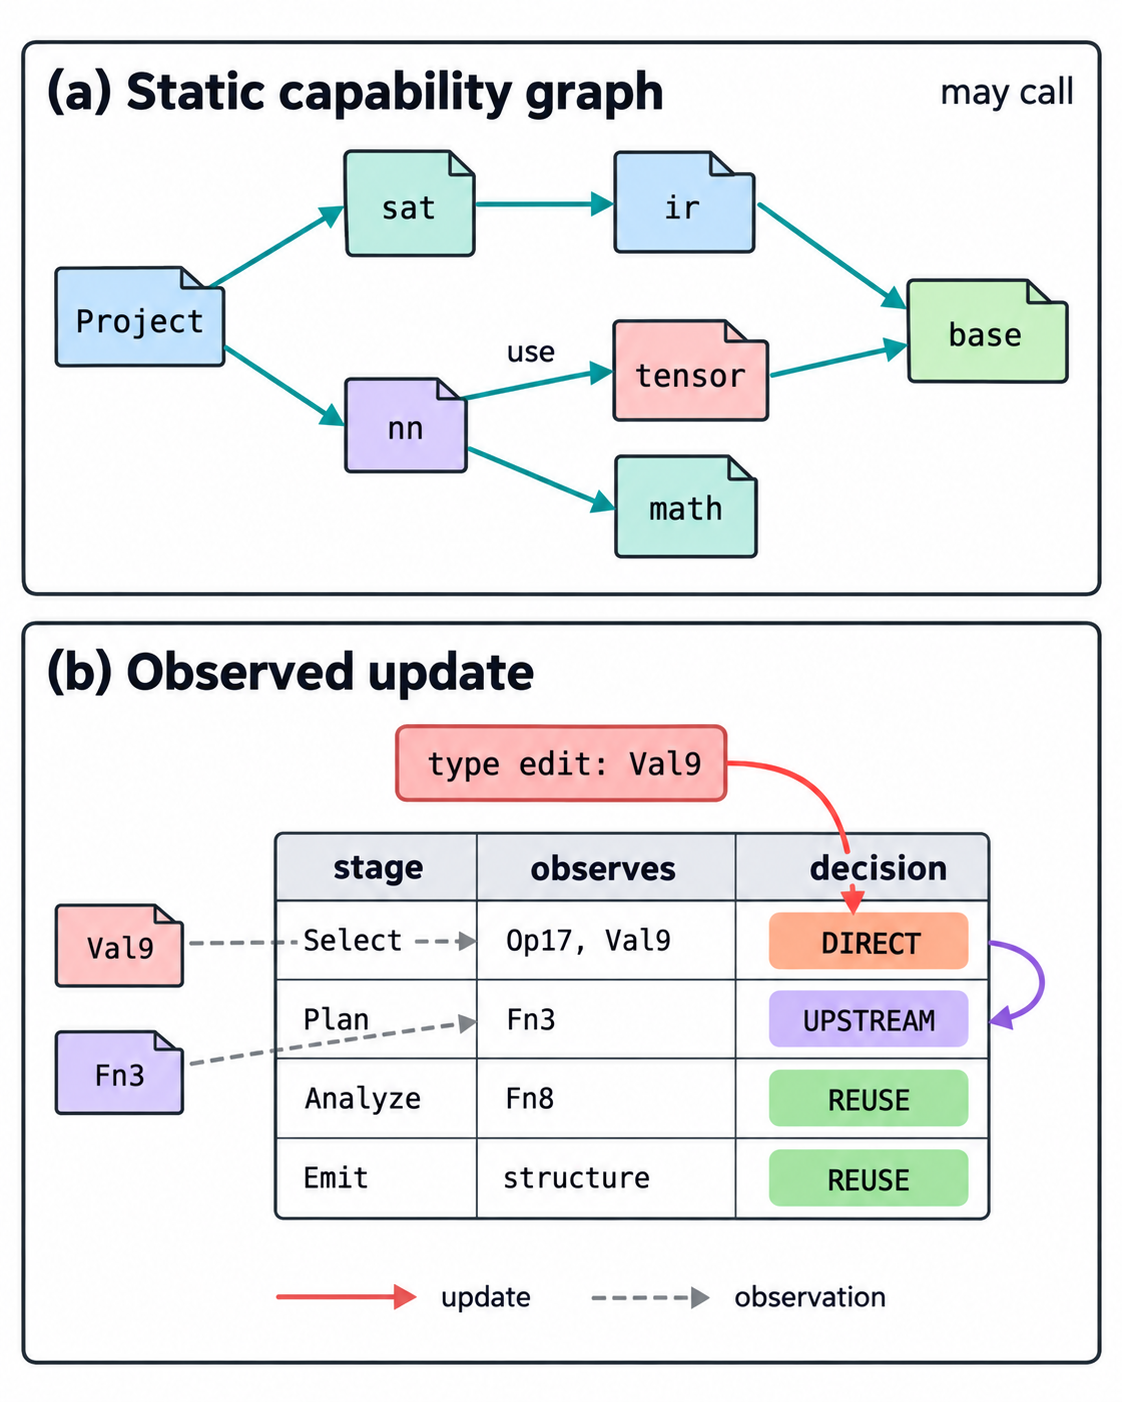
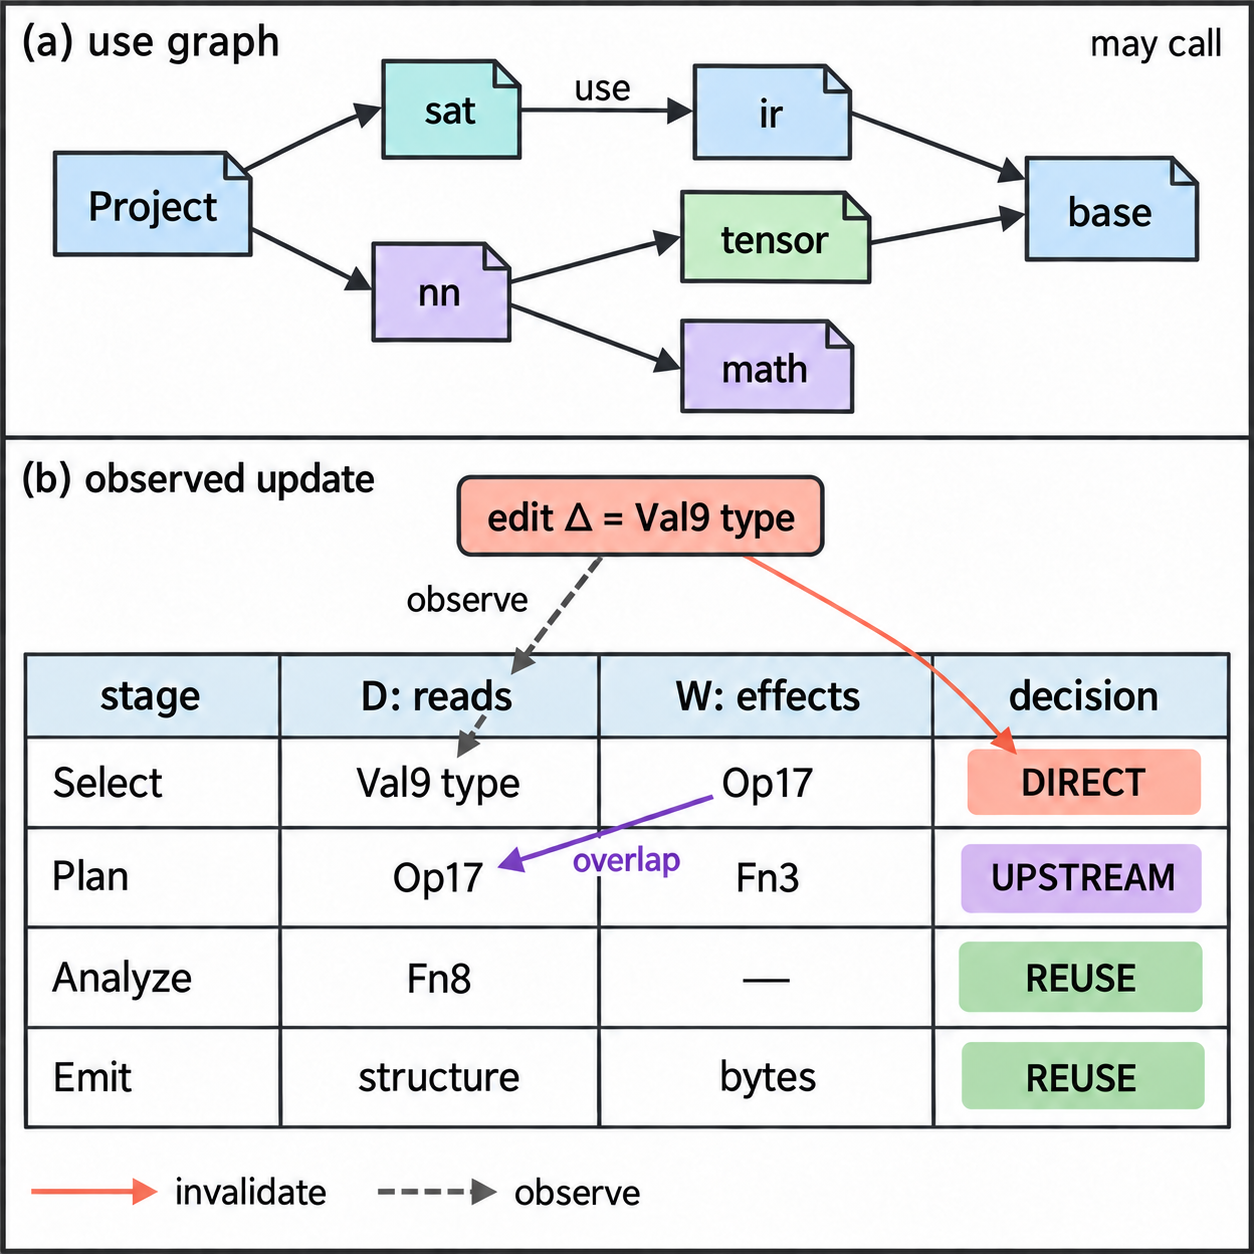
compact design figures for single-column layout

diff --git a/paper/sections/03-design.tex b/paper/sections/03-design.tex
@@ -38,13 +38,13 @@ and the runtime either commits a verified update or returns a read-only result.
 
 \begin{figure}[t]
   \centering
-  \includegraphics[width=\columnwidth]{figures/figure-02-system-model.png}
-  \caption{Joggle expresses compiler behavior as typed functions, organizes
-    them in mods, and executes them over a transactional graph runtime.}
-  \Description{An extension mod and typed function enter an evaluator. The
-    evaluator accesses a subject store, records reads and effects, verifies
-    mutations in a transaction, and returns a result or artifact. Reusable
-    dependency records feed back to the evaluator.}
+  \includegraphics[width=.80\columnwidth]{figures/figure-02-system-model.png}
+  \caption{A typed compiler call executes transactionally and records reads
+    and effects for reuse.}
+  \Description{A typed function enters an evaluator that reads and writes a
+    subject graph under a transaction. A compact record stores the call key,
+    result, observed reads, and effects; current records return to the
+    evaluator as cache hits.}
   \label{fig:system-model}
 \end{figure}
 
@@ -294,12 +294,12 @@ recorded inputs overlap its effects.
 
 \begin{figure}[t]
   \centering
-  \includegraphics[width=\columnwidth]{figures/figure-03-dependencies.png}
-  \caption{Static \texttt{use} edges define available compiler capabilities,
-    whereas dynamic observations determine the work selected after an edit.}
-  \Description{The upper panel shows the static use graph of seven mods. The
-    lower panel shows a value-type edit directly selecting one stage,
-    propagating to one downstream stage, and preserving two reusable stages.}
+  \includegraphics[width=.80\columnwidth]{figures/figure-03-dependencies.png}
+  \caption{Static \texttt{use} edges bound calls; dynamic read/effect records
+    select work after an edit.}
+  \Description{The upper region shows the static use graph of seven mods. The
+    lower ledger shows each stage's observed reads, effects, and selection
+    decision after a value-type edit.}
   \label{fig:dependencies}
 \end{figure}
 

diff --git a/paper/README.md b/paper/README.md
@@ -52,26 +52,20 @@ Figure 2 follows this call from definition to publication. A mod supplies the
 typed function, the evaluator observes its graph access, and the runtime either
 commits a verified update or returns a read-only result.
 
-<!-- FIGURE 2 PROMPT — Original single-column Joggle mechanism diagram, portrait
-aspect ratio about 4:5, designed for a 3.3-inch ACM column. White background,
-thin dark strokes, square or lightly rounded compiler-paper boxes, compact
-spacing, restrained blue/teal/purple/coral semantic accents, small monospace
-signatures, no icons, no gradients, no shadows, and no wide stacked workflow.
-Use an original hub-and-ledger composition. At the top, place two compact cards:
-Extension Mod on the left with `use ir` and `fn select`, and Typed Function on
-the right with `select(Mod) -> bool` plus four tiny role tags analyze, transform,
-convert, emit. Both feed a small central Evaluator box containing resolve,
-execute, observe. Below it, place a compact Subject Store box containing a tiny
-Fn→Blk→Op→Val graph. Attach a narrow transaction strip on its right with journal
-and verify. At the lower left, draw a dependency ledger with `D: reads` and
-`W: effects`; connect store reads to D with dashed arrows and committed writes
-to W with solid arrows. A curved arrow labeled reuse returns from the ledger to
-the evaluator. A small result/artifact tab exits at lower right. Emphasize the
-closed call-observe-commit loop rather than architectural layers. Keep every
-label readable at single-column print size. -->
+<!-- FIGURE 2 PROMPT — Compact square Joggle call mechanism for 0.80 of one ACM
+column. Use a white background, thin dark strokes, restrained blue/teal/purple/
+coral fills, short arrows, tight boxes, and monospace code labels. The top strip
+contains `mod sat`, `use ir`, `fn select`, `[stage: select]`, and
+`select(Mod) -> bool`, with analyze/transform/convert/emit chips. A compact
+Evaluator performs resolve→execute→observe over a Subject graph
+Fn→Blk→Op17→Val9 and a journal/verify transaction. Dashed arrows mark reads;
+solid coral arrows mark writes and commit. The bottom is a four-column record:
+key `E, fn, args`, result `r`, reads `Val9 type + Op17 callee`, and effects
+`Op17`, followed by `reuse = same(key) ∧ current(D)`. Eliminate title banners,
+large containers, long connectors, and decorative whitespace. -->
 
-*Figure 2: Joggle expresses compiler behavior as typed functions, organizes
-them in mods, and executes them over a transactional graph runtime.*
+*Figure 2: A typed compiler call executes transactionally and records reads and
+effects for reuse.*
 
 The remainder of this section develops the model in execution order. Section
 3.2 defines compiler functions. Section 3.3 explains how mods own and compose
@@ -317,27 +311,19 @@ functions may be called; a compact observation ledger records which entities a
 particular run read. An edit invalidates the stage that observed it and only
 the later stages whose recorded inputs overlap its effects.
 
-<!-- FIGURE 3 PROMPT — Original single-column two-panel dependency diagram,
-portrait aspect ratio about 4:5, designed for a 3.3-inch ACM column. Match
-Figure 2's thin dark strokes, compact square compiler-paper boxes, restrained
-blue/teal/purple/coral/green accents, white background, small monospace entity
-labels, no icons, gradients, shadows, or wide left-to-right pipeline. Stack two
-dense panels vertically. Panel (a), `static capability graph`, occupies the top
-third: Project has `use` arrows to sat and nn; sat to ir; nn to tensor and math;
-ir and tensor to base. Use file-tab node shapes and label one representative
-edge `use`; place `may call` in the panel corner. Panel (b), `observed update`,
-occupies the lower two-thirds as a compact three-column ledger headed stage,
-observes, decision. Rows are Select | Op17, Val9 | DIRECT; Plan | Fn3 | UPSTREAM;
-Analyze | Fn8 | REUSE; Emit | structure | REUSE. Put a small `type edit: Val9`
-card above the ledger. Draw one solid arrow to the DIRECT row, one solid curved
-propagation arrow from Select effects to Plan, and dashed gray observation
-links to the entity chips. Use an orange badge for DIRECT, purple for UPSTREAM,
-green for REUSE, and a tiny legend for solid update versus dashed observation.
-The composition must be compact and information-dense but readable at
-single-column print size; do not reuse the layout of any reference figure. -->
+<!-- FIGURE 3 PROMPT — Compact square dependency diagram for 0.80 of one ACM
+column, using Figure 2's thin strokes and restrained semantic colors. The top
+quarter is a tight `use` graph: Project→sat,nn; sat→ir; nn→tensor,math; and
+ir,tensor→base. The lower region is a four-column ledger headed stage, D: reads,
+W: effects, decision. Its rows are Select | Val9 type | Op17 | DIRECT; Plan |
+Op17 | Fn3 | UPSTREAM; Analyze | Fn8 | — | REUSE; Emit | structure | bytes |
+REUSE. A small `edit Δ = Val9 type` chip points to DIRECT; a dashed link marks
+the observation; a purple arrow connects Select's Op17 effect to Plan's Op17
+read and is labeled overlap. Use tight cells and short arrows, with no large
+panels or decorative whitespace. -->
 
-*Figure 3: Static `use` edges define available compiler capabilities, whereas
-dynamic observations determine the work selected after an edit.*
+*Figure 3: Static `use` edges bound calls; dynamic read/effect records select
+work after an edit.*
 
 Fine-grained observations reduce re-execution but add capture and validation
 work. For $K$ stages, incremental latency is approximately
